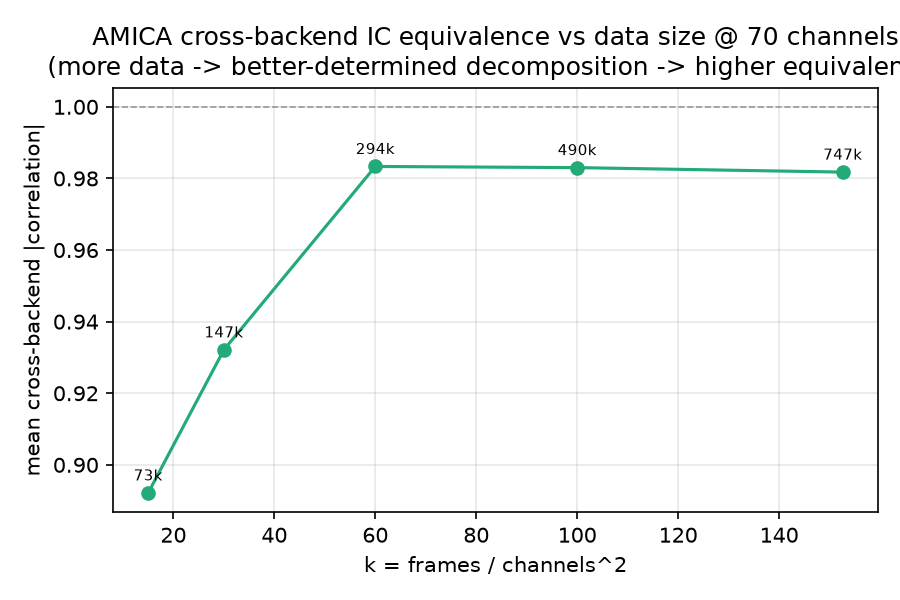
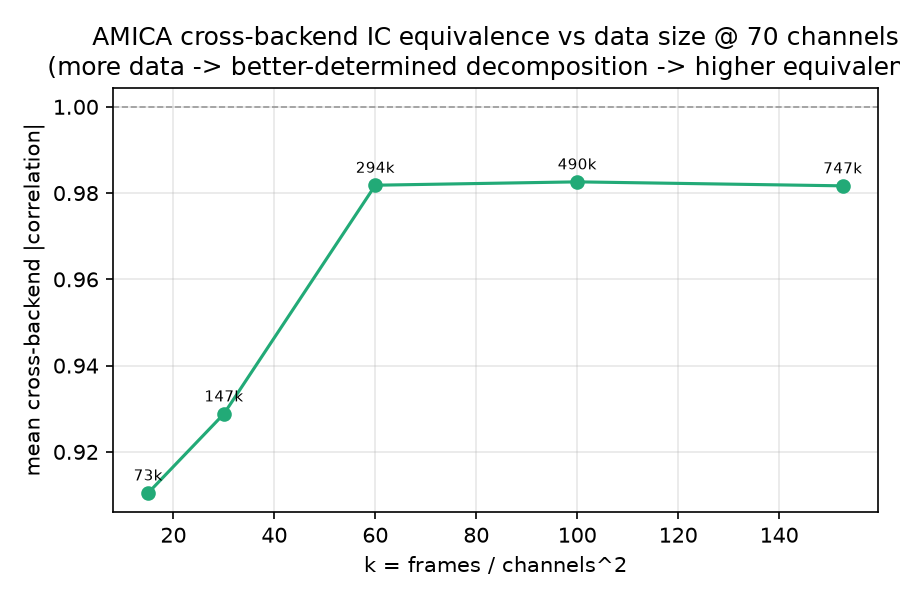
docs: align k-sweep figure/table to canonical run

diff --git a/docs/guides/validation.md b/docs/guides/validation.md
@@ -58,10 +58,10 @@ float64/float32 backends). Equivalence saturates at ~0.98 once $k \geq 60$.
 
 | frames | k | mean \|corr\| | components >0.95 |
 |---|---|---|---|
-| 73,500 | 15 | 0.892 | 49.5% |
-| 147,000 | 30 | 0.932 | 61.4% |
-| 294,000 | 60 | 0.983 | 92.9% |
-| 490,000 | 100 | 0.983 | 96.2% |
+| 73,500 | 15 | 0.911 | 55.2% |
+| 147,000 | 30 | 0.929 | 56.7% |
+| 294,000 | 60 | 0.982 | 90.0% |
+| 490,000 | 100 | 0.983 | 94.8% |
 | 747,750 | 152 | 0.982 | 92.4% |
 
 !!! note "The threshold is data-specific"